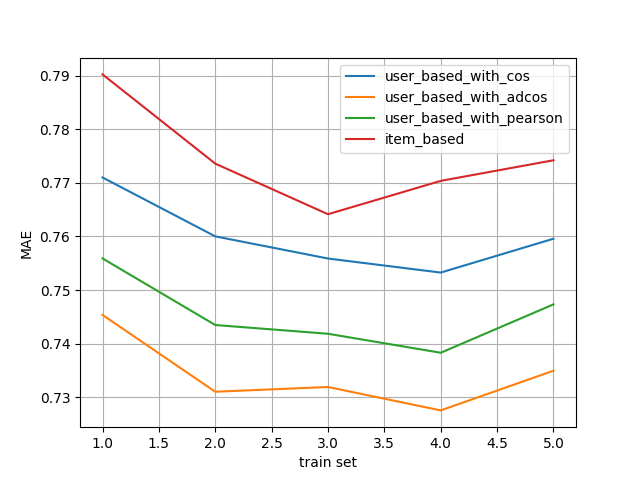
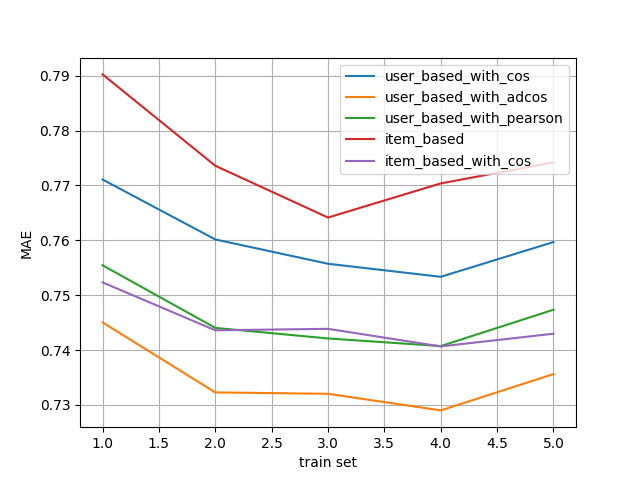
u优化

diff --git a/com_mae.py b/com_mae.py
@@ -1,10 +1,13 @@
 import pandas as pd
 import matplotlib.pyplot as plt
 
-lst_cos=[]
-lst_adcos=[]
-lst_pearson=[]
+lst_user_with_cos=[]
+lst_user_with_adcos=[]
+lst_user_with_pearson=[]
 lst_item=[]
+lst_item_with_cos=[]
+lst_item_with_adcos=[]
+lst_item_with_pearson=[]
 for i in range(1,6):
     str1 = './movielens/'
     df_real = pd.read_table(str1 + 'u%d.test' % i, names=['userid', 'itemid', 'real_rating', 'timestamp'])
@@ -14,7 +17,7 @@ for i in range(1,6):
     user_based_with_cos=pd.merge(user_based_with_cos_predict,df_real,on=['userid','itemid'])
     user_based_with_cos=user_based_with_cos.drop('timestamp',axis=1)
     user_based_with_cos['mae']=abs(user_based_with_cos['predict_rating']-user_based_with_cos['real_rating'])
-    lst_cos.append(user_based_with_cos['mae'].mean())
+    lst_user_with_cos.append(user_based_with_cos['mae'].mean())
 
 
     user_based_with_adcos_predict = pd.read_csv('user_based_with_sim_adcos/u%dpredict.csv' % i,
@@ -22,7 +25,7 @@ for i in range(1,6):
     user_based_with_adcos = pd.merge(user_based_with_adcos_predict, df_real, on=['userid', 'itemid'])
     user_based_with_adcos = user_based_with_adcos.drop('timestamp', axis=1)
     user_based_with_adcos['mae'] = abs(user_based_with_adcos['predict_rating'] - user_based_with_adcos['real_rating'])
-    lst_adcos.append(user_based_with_adcos['mae'].mean())
+    lst_user_with_adcos.append(user_based_with_adcos['mae'].mean())
 
 
 
@@ -31,7 +34,7 @@ for i in range(1,6):
     user_based_with_pearson = pd.merge(user_based_with_pearson_predict, df_real, on=['userid', 'itemid'])
     user_based_with_pearson = user_based_with_pearson.drop('timestamp', axis=1)
     user_based_with_pearson['mae'] = abs(user_based_with_pearson['predict_rating'] - user_based_with_pearson['real_rating'])
-    lst_pearson.append(user_based_with_pearson['mae'].mean())
+    lst_user_with_pearson.append(user_based_with_pearson['mae'].mean())
 
 
     item_based_predict = pd.read_csv('item_based/item_based_u%dresult.csv' % i,
@@ -41,10 +44,39 @@ for i in range(1,6):
     item_based_merge['mae'] = abs(item_based_merge['predict_rating'] - item_based_merge['real_rating'])
     lst_item.append(item_based_merge['mae'].mean())
 
+
+    item_based_with_cos_predict = pd.read_csv('item_based_with_sim_cos/u%dpredict.csv' % i,
+                                     names=['userid', 'itemid', 'predict_rating'])
+    item_based_with_cos = pd.merge(item_based_with_cos_predict, df_real, on=['userid', 'itemid'])
+    item_based_with_cos = item_based_with_cos.drop('timestamp', axis=1)
+    item_based_with_cos['mae'] = abs(item_based_with_cos['predict_rating'] - item_based_with_cos['real_rating'])
+    lst_item_with_cos.append(item_based_with_cos['mae'].mean())
+
+'''
+    item_based_predict = pd.read_csv('item_based_with_sim_adcos/item_based_u%dresult.csv' % i,
+                                     names=['userid', 'itemid', 'predict_rating'])
+    item_based_merge = pd.merge(item_based_predict, df_real, on=['userid', 'itemid'])
+    item_based_merge = item_based_merge.drop('timestamp', axis=1)
+    item_based_merge['mae'] = abs(item_based_merge['predict_rating'] - item_based_merge['real_rating'])
+    lst_item.append(item_based_merge['mae'].mean())
+
+
+    item_based_predict = pd.read_csv('item_based_with_sim_pearson/item_based_u%dresult.csv' % i,
+                                     names=['userid', 'itemid', 'predict_rating'])
+    item_based_merge = pd.merge(item_based_predict, df_real, on=['userid', 'itemid'])
+    item_based_merge = item_based_merge.drop('timestamp', axis=1)
+    item_based_merge['mae'] = abs(item_based_merge['predict_rating'] - item_based_merge['real_rating'])
+    lst_item.append(item_based_merge['mae'].mean())
+'''
+
 plt.plot(range(1,6),lst_cos,label='user_based_with_cos')
 plt.plot(range(1,6),lst_adcos,label='user_based_with_adcos')
 plt.plot(range(1,6),lst_pearson,label='user_based_with_pearson')
 plt.plot(range(1,6),lst_item,label='item_based')
+plt.plot(range(1,6),lst_item_with_cos,label='item_based_with_cos')
+'''plt.plot(range(1,6),lst_item,label='item_based_with_adcos')
+plt.plot(range(1,6),lst_item,label='item_based_with_pearson')'''
+
 plt.legend(loc='upper right')
 plt.grid()
 plt.xlabel('train set')

diff --git a/item_based_similarity_function.py b/item_based_similarity_function.py
@@ -45,7 +45,8 @@ def sim_adcos(train,item1,item2):
         sq2=pow((train[user][item2]-avg1),2)
         item2_sum += sq2
     denominator=sqrt(item1_sum)*sqrt(item2_sum)
-
+    if denominator==0:#这种情况之前没想到。意思是假如共同用户只评价过这一个。则其均值和该评价相同。则出现0.
+        return 0.3
     return numerator/denominator
 
 

diff --git a/user_based_similarity_function.py b/user_based_similarity_function.py
@@ -56,7 +56,7 @@ def sim_cos(prefer, person1, person2):
             sim[item] = 1
 
     if len(sim)==0:
-        return -1
+        return 0.3
     summulti=sum([(prefer[person1][item] * prefer[person2][item]) for item in sim ])
     sq1=sqrt(sum([pow(prefer[person1][item], 2) for item in sim]))
     sq2=sqrt(sum([pow(prefer[person2][item], 2) for item in sim]))

diff --git a/item_based_new.py b/item_based_new.py
@@ -88,7 +88,7 @@ def getAllUserRating(fileTrain, fileTest, fileResult,sim):
 
 if __name__ == "__main__":
     print("The program is running, please wait!")
-    for i in ('sim_cos','sim_adcos','sim_pearson'):
+    for i in ('sim_adcos','sim_pearson'):
         if i=='sim_cos':
             sim=sim_cos
         elif i=='sim_adcos':
